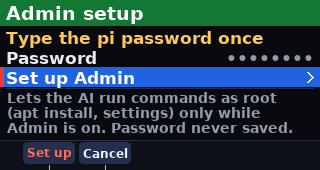
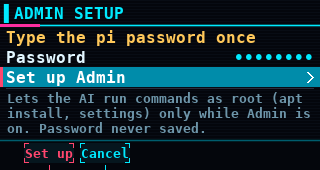
Nomad AI Bridge 0.2.11: cyber look, hold ESC to exit
Cyber theme for the LCD (near-black with scanlines, DejaVu Sans Mono,
neon cyan lines, magenta accent, bracketed 4-8 key bar). Short ESC goes
back and asks before leaving the main page; holding ESC exits to HOME
from any screen, as in the CardputerZero key spec.

Claude-Session: https://claude.ai/code/session_01GkgDxbQyCv9fxUSNgY6Wjk

diff --git a/remote-mcp/tntremote/tntui.py b/remote-mcp/tntremote/tntui.py
@@ -72,6 +72,66 @@ HINT_MENU = "↑↓ move  OK/→ open  ←/ESC back"
 HINT_FORM = "↑↓ move  OK/→ edit  ESC back"
 HINT_EDIT = "OK save  ESC cancel"
 
+# ---- cyber theme (Nomad AI Bridge) ----------------------------------------------
+# Near-black with faint scanlines, monospace, neon cyan lines, magenta accent.
+CYBER = False
+CYAN = (0, 234, 255)
+CYAN_D = (0, 92, 110)
+MAG = (255, 46, 160)
+LIME = (120, 255, 150)
+
+
+def use_cyber() -> None:
+    """Switch every screen to the cyber look. Call once at start-up, before fonts()."""
+    global CYBER, BG, FG, DIM, TITLE_BG, TITLE_FG, TITLE_RIGHT, SEL_BG, EDIT_BG, EDIT_FIELD
+    global OK, BAD, HINT_BG, HINT_FG, CHEVRON, KEYBAR_BG, SOFT_BG, SOFT_FG, SOFT_LINE, FONT_PATHS, FONT_SIZES
+    CYBER = True
+    BG, FG, DIM = (4, 6, 12), (226, 246, 255), (110, 150, 170)
+    TITLE_BG, TITLE_FG, TITLE_RIGHT = (4, 6, 12), CYAN, LIME
+    SEL_BG = (0, 140, 170)
+    EDIT_BG, EDIT_FIELD = (175, 18, 70), (80, 6, 34)
+    OK, BAD = LIME, (255, 70, 110)
+    HINT_BG, HINT_FG = (6, 14, 20), CYAN
+    CHEVRON = CYAN_D
+    KEYBAR_BG, SOFT_BG, SOFT_FG, SOFT_LINE = (4, 6, 12), (6, 22, 30), CYAN, CYAN
+    FONT_PATHS = ["/usr/share/fonts/truetype/dejavu/DejaVuSansMono-Bold.ttf",
+                  "/usr/share/fonts/truetype/dejavu/DejaVuSans-Bold.ttf"]
+    FONT_SIZES = {"title": 16, "row": 16, "small": 13, "tiny": 12}
+    _fonts.clear()
+
+
+def glow_line(surf, x1: int, y: int, x2: int, color) -> None:
+    surf.fill(tuple(c // 3 for c in color), (x1, y - 1, x2 - x1, 3))
+    surf.fill(color, (x1, y, x2 - x1, 1))
+
+
+def corners(surf, rect, color, n: int = 6) -> None:
+    """Bracket corners around rect (cyber frames)."""
+    x, y, w, h = rect
+    for cx, cy, dx, dy in ((x, y, 1, 1), (x + w - 1, y, -1, 1), (x, y + h - 1, 1, -1), (x + w - 1, y + h - 1, -1, -1)):
+        surf.fill(color, (min(cx, cx + dx * (n - 1)), cy, n, 1))
+        surf.fill(color, (cx, min(cy, cy + dy * (n - 1)), 1, n))
+
+
+def code_box(surf, text: str, font, cy: int) -> None:
+    """The big one-time code, centred at height cy."""
+    import pygame
+    img = font.render(text, True, CYAN if CYBER else (255, 255, 255))
+    x = (W - img.get_width()) // 2
+    y = cy - img.get_height() // 2
+    r = pygame.Rect(x - 12, y - 4, img.get_width() + 24, img.get_height() + 8)
+    if CYBER:
+        r = pygame.Rect(10, r.y, W - 20, r.h)
+        surf.fill((0, 30, 40), r)
+        corners(surf, r, CYAN, 10)
+        glow = font.render(text, True, CYAN_D)
+        for dx, dy in ((-1, 0), (1, 0), (0, -1), (0, 1)):
+            surf.blit(glow, (x + dx, y + dy))
+    else:
+        pygame.draw.rect(surf, SEL_BG, r, border_radius=6)
+    surf.blit(img, (x, y))
+
+
 # ---- number keys 4..8: label bar at the bottom (official CardputerZero key spec,
 # cardputer.cc/#/documents/cp0-keys), same look as the other Nomad apps ----------
 SOFT_KEYS = "45678"
@@ -369,16 +429,32 @@ def render(surf, title: str, rows: list, hint: str = "", selected: int | None = 
     import pygame
     f = f or fonts()
     surf.fill(BG)
-    surf.fill(TITLE_BG, (0, 0, W, TITLE_H))
-    surf.blit(f["title"].render(title, True, TITLE_FG), (6, 2), (0, 0, W - 12, TITLE_H))
+    if CYBER:
+        for sy in range(0, H, 3):                  # faint scanlines
+            surf.fill((8, 12, 20), (0, sy, W, 1))
+        surf.blit(f["title"].render("\u258c" + title.upper(), True, TITLE_FG), (3, 3), (0, 0, W - 10, TITLE_H))
+        glow_line(surf, 0, TITLE_H - 1, W, CYAN)
+        surf.fill(MAG, (0, TITLE_H - 2, 40, 3))
+    else:
+        surf.fill(TITLE_BG, (0, 0, W, TITLE_H))
+        surf.blit(f["title"].render(title, True, TITLE_FG), (6, 2), (0, 0, W - 12, TITLE_H))
     rs = remote_state()
     dot = 16 if rs else 0
     if right:
-        img = f["small"].render(right, True, TITLE_RIGHT)
-        surf.fill(TITLE_BG, (W - img.get_width() - 12 - dot, 0, img.get_width() + 12 + dot, TITLE_H))
-        surf.blit(img, (W - img.get_width() - 6 - dot, 5))
+        rc = TITLE_RIGHT
+        if CYBER:
+            right = "● " + right
+            rc = MAG if right.endswith("ROOT") else DIM if right.endswith("OFF") else LIME
+        img = f["small"].render(right, True, rc)
+        if CYBER:
+            surf.fill(BG, (W - img.get_width() - 12 - dot, 0, img.get_width() + 12 + dot, TITLE_H - 2))
+            surf.blit(img, (W - img.get_width() - 6 - dot, 6))
+            img = None
+        if img is not None:
+            surf.fill(TITLE_BG, (W - img.get_width() - 12 - dot, 0, img.get_width() + 12 + dot, TITLE_H))
+            surf.blit(img, (W - img.get_width() - 6 - dot, 5))
     if rs:
-        surf.fill(TITLE_BG, (W - dot - 4, 0, dot + 4, TITLE_H))
+        surf.fill(TITLE_BG, (W - dot - 4, 0, dot + 4, TITLE_H - (2 if CYBER else 0)))
         pygame.draw.circle(surf, REMOTE_ROOT if rs == "root" else REMOTE_ON, (W - 10, TITLE_H // 2), 6)
     y = TITLE_H + 1
     n = ROWS_KEYS if keys and any(keys) else ROWS
@@ -389,6 +465,8 @@ def render(surf, title: str, rows: list, hint: str = "", selected: int | None = 
         draw_keybar(surf, keys, f)
     elif hint:
         surf.fill(HINT_BG, (0, H - HINT_H, W, HINT_H))
+        if CYBER:
+            glow_line(surf, 0, H - HINT_H, W, CYAN_D)
         surf.blit(f["small"].render(hint, True, HINT_FG), (6, H - HINT_H + 1), (0, 0, W - 12, HINT_H))
 
 
@@ -415,16 +493,23 @@ def draw_row(surf, font, y: int, r: RowView, f: dict | None = None) -> None:
     color = r.color or FG
     if sel:
         surf.fill(SEL_BG, (0, y, W, ROW_H))
-        if color == BAD:                       # a risky action keeps a red edge when highlighted
+        if CYBER:
+            surf.fill(BAD if color == BAD else MAG, (0, y, 3, ROW_H))
+        elif color == BAD:                     # a risky action keeps a red edge when highlighted
             surf.fill((235, 60, 60), (0, y, 4, ROW_H))
     x = 6
     if r.icon:
         text, bg = r.icon
         box = pygame.Rect(x, y + 2, 16, ROW_H - 4)
-        pygame.draw.rect(surf, bg, box, border_radius=4)
-        if sel:
-            pygame.draw.rect(surf, SEL_FG, box, 1, border_radius=4)
-        img = f["tiny"].render(text, True, (255, 255, 255))
+        if CYBER:
+            ic = SEL_FG if sel else bg
+            pygame.draw.rect(surf, ic, box, 1)
+            img = f["tiny"].render(text, True, ic)
+        else:
+            pygame.draw.rect(surf, bg, box, border_radius=4)
+            if sel:
+                pygame.draw.rect(surf, SEL_FG, box, 1, border_radius=4)
+            img = f["tiny"].render(text, True, (255, 255, 255))
         surf.blit(img, (box.centerx - img.get_width() // 2, box.centery - img.get_height() // 2))
         x += 22
     right = W - 6
@@ -433,7 +518,11 @@ def draw_row(surf, font, y: int, r: RowView, f: dict | None = None) -> None:
         pygame.draw.lines(surf, SEL_FG if sel else CHEVRON, False,
                           [(cx - 3, cy - 5), (cx + 2, cy), (cx - 3, cy + 5)], 2)
         right = W - 20
-    if r.pill is not None:
+    if r.pill is not None and CYBER:
+        img = f["small"].render("[ON]" if r.pill else "[OFF]", True, SEL_FG if sel else (LIME if r.pill else DIM))
+        surf.blit(img, (right - img.get_width(), y + 2))
+        right -= img.get_width() + 6
+    elif r.pill is not None:
         img = f["small"].render("On" if r.pill else "Off", True, (255, 255, 255))
         pw = 40
         box = pygame.Rect(right - pw, y + 2, pw, ROW_H - 4)
@@ -444,7 +533,7 @@ def draw_row(surf, font, y: int, r: RowView, f: dict | None = None) -> None:
         right = box.x - 6
     vw = 0
     if r.value:
-        img = font.render(r.value, True, SEL_FG if sel else DIM)
+        img = font.render(r.value, True, SEL_FG if sel else (CYAN if CYBER else DIM))
         lw = font.size(r.label)[0]
         vw = min(img.get_width(), max((right - x) // 2, right - x - lw - 12))
         surf.blit(img, (right - vw, y + 1), (0, 0, vw, ROW_H))
@@ -467,7 +556,10 @@ def draw_keybar(surf, keys: list, f: dict | None = None) -> None:
     f = f or fonts()
     top = H - KEYBAR_H
     surf.fill(KEYBAR_BG, (0, top, W, KEYBAR_H))
-    surf.fill((40, 46, 62), (0, top, W, 1))
+    if CYBER:
+        glow_line(surf, 0, top, W, CYAN_D)
+    else:
+        surf.fill((40, 46, 62), (0, top, W, 1))
     by = top + 2
     for i, cx in enumerate(SOFT_X):
         lab = keys[i] if i < len(keys) else None
@@ -477,10 +569,15 @@ def draw_keybar(surf, keys: list, f: dict | None = None) -> None:
         if isinstance(lab, (tuple, list)):
             lab, color = lab[0], lab[1]
         r = pygame.Rect(cx - SOFT_W // 2, by, SOFT_W, SOFT_SIZE)
-        pygame.draw.rect(surf, SOFT_BG, r, border_radius=4)
+        if CYBER:
+            r = r.inflate(-2, -2)
+            surf.fill(SOFT_BG, r)
+            corners(surf, r, color, 5)
+        else:
+            pygame.draw.rect(surf, SOFT_BG, r, border_radius=4)
         font = _fit(f, lab, SOFT_W - 4)
         img = font.render(lab, True, color)
         if img.get_width() > SOFT_W - 4:
             img = pygame.transform.smoothscale(img, (SOFT_W - 4, img.get_height()))
         surf.blit(img, (cx - img.get_width() // 2, by + (SOFT_SIZE - img.get_height()) // 2))
-        surf.fill(SOFT_LINE, (cx, by + SOFT_SIZE + 1, 1, H - (by + SOFT_SIZE + 1)))
+        surf.fill(color if CYBER else SOFT_LINE, (cx, by + SOFT_SIZE + 1, 1, H - (by + SOFT_SIZE + 1)))

diff --git a/remote-mcp/tntremote/app.py b/remote-mcp/tntremote/app.py
@@ -18,6 +18,9 @@ from .keys import Keyboard
 
 APP_TITLE = brand.APP_NAME
 
+if getattr(brand, "THEME", "") == "cyber":
+    T.use_cyber()
+
 HELP = (
     brand.APP_NAME + " turns this CardputerZero into an MCP server that AI apps can use from "
     "anywhere it has internet: Claude (phone app, claude.ai, Claude Code), ChatGPT "
@@ -32,6 +35,8 @@ HELP = (
     "While it is on, the title bar (here and in " + brand.APPS_WORD + " apps) shows an orange dot (red when Admin "
     "/ sudo is allowed). Turn Remote access Off to cut every AI app off at once; "
     "Disconnect everyone forgets all sign-ins.\n"
+    "Keys: ESC goes back, hold ESC exits to HOME, number keys 4-8 do the actions shown at the "
+    "bottom of the screen.\n"
     + (brand.CREDITS + "\n" if brand.CREDITS else "") +
     "\n".join(brand.DEVELOPER)
 )
@@ -198,7 +203,7 @@ class Home(FormScreen):
         return rows
 
     def hint(self):
-        return "↑↓ move  OK select  ESC quit"
+        return "↑↓ move  OK select  hold ESC exit"
 
     def keys(self):
         return ["Connect", "Status", "Apps", "Perms", "Help"]
@@ -208,7 +213,12 @@ class Home(FormScreen):
 
     def key(self, k):
         if k.name == "esc":
-            self.app.quit = True
+            # like Rig Companion: a short ESC on the main page asks first; holding ESC exits
+            def yes():
+                self.app.quit = True
+            on = "Remote access stays ON, so your AI apps can still reach the device." if self.app.on else ""
+            self.app.push(Confirm(self.app, "Exit " + APP_TITLE + "?",
+                                  ("OK exits, ESC stays. " + on).strip(), yes, T.FG))
             return
         super().key(k)
 
@@ -304,11 +314,7 @@ class PairScreen(Screen):
         if oauth.pairing_state()["active"]:
             import pygame
             f = big_font()
-            img = f.render(self.code, True, (255, 255, 255))
-            x = (T.W - img.get_width()) // 2
-            y = T.TITLE_H + T.ROW_H + 6
-            pygame.draw.rect(surf, T.SEL_BG, (x - 10, y - 4, img.get_width() + 20, img.get_height() + 8), border_radius=6)
-            surf.blit(img, (x, y))
+            T.code_box(surf, self.code, f, T.TITLE_H + T.ROW_H + 6 + f.get_height() // 2)
 
     def hint(self):
         return "OK new code   ESC back"
@@ -329,7 +335,7 @@ def big_font():
         import os
         import pygame
         path = next((p for p in T.FONT_PATHS if os.path.exists(p)), None)
-        _big.append(pygame.font.Font(path, 40) if path else pygame.font.Font(None, 56))
+        _big.append(pygame.font.Font(path, 36 if T.CYBER else 40) if path else pygame.font.Font(None, 56))
     return _big[0]
 
 
@@ -1228,6 +1234,9 @@ class App:
         while not self.quit:
             keys = self.kb.poll(0.25) if self.kb else []
             for k in keys:
+                if k.name == "esc_long":           # hold ESC: exit to HOME from any screen
+                    self.quit = True
+                    break
                 s = self.stack[-1]
                 i = T.soft_index(getattr(k, "char", ""))
                 if i is not None and not s.typing() and any(s.keys()):

diff --git a/remote-mcp/tntremote/keys.py b/remote-mcp/tntremote/keys.py
@@ -106,8 +106,21 @@ class Keyboard:
                         keys.append(k)
         return keys
 
+    LONG_ESC = 0.8     # seconds: holding ESC this long exits the app (CardputerZero key spec)
+
     def _feed(self, code: int, value: int) -> Key | None:
         down = value != 0
+        if code in NAMED and NAMED[code] == "esc":
+            # short ESC = back; hold ESC = exit to HOME ("esc_long", sent once)
+            import time
+            now = time.monotonic()
+            if value == 1:
+                self._esc_t, self._esc_fired = now, False
+            elif not getattr(self, "_esc_fired", True) and now - getattr(self, "_esc_t", now) >= self.LONG_ESC:
+                self._esc_fired = True
+                return Key("esc_long", ctrl=self.ctrl)
+            elif value == 0:
+                self._esc_fired = True
         if code in SHIFT:
             self.shift = down
             return None

diff --git a/nomad-ai-bridge/brand.py b/nomad-ai-bridge/brand.py
@@ -21,3 +21,4 @@ OWNER = "the owner's"
 NET_TOOLS = "Nomad Net Tools"
 APPS_WORD = "Nomad"
 ADMIN_SETUP = True               # store rule: no root by default; owner grants Admin once with the pi password
+THEME = "cyber"                  # LCD look: near-black, neon cyan + magenta, monospace (0.2.11)
